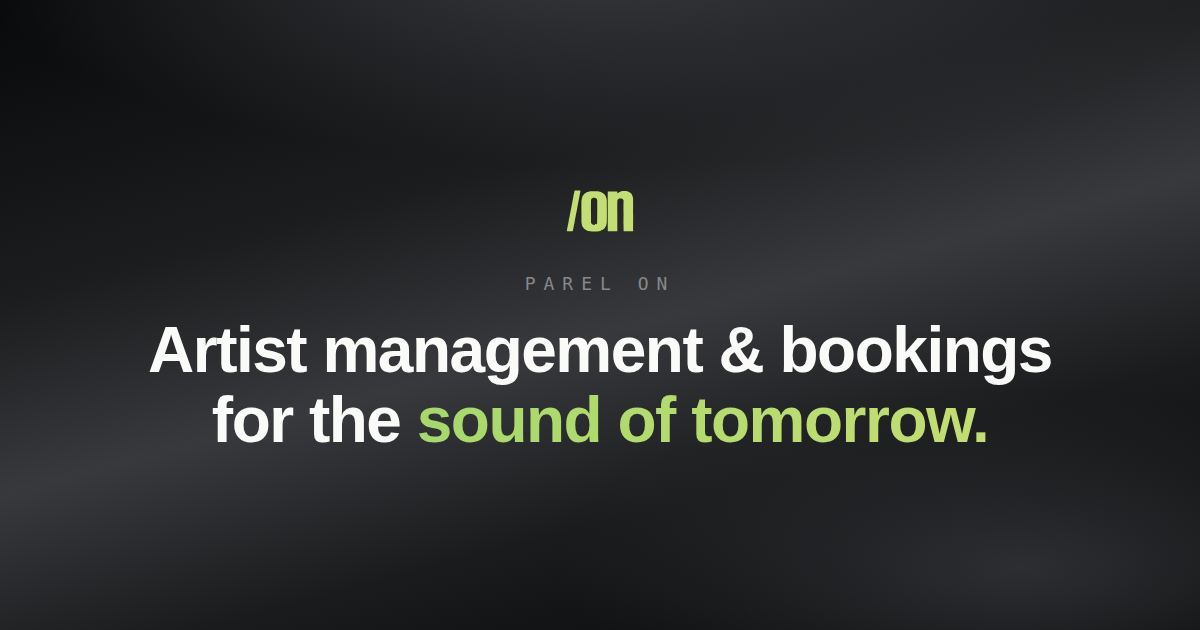
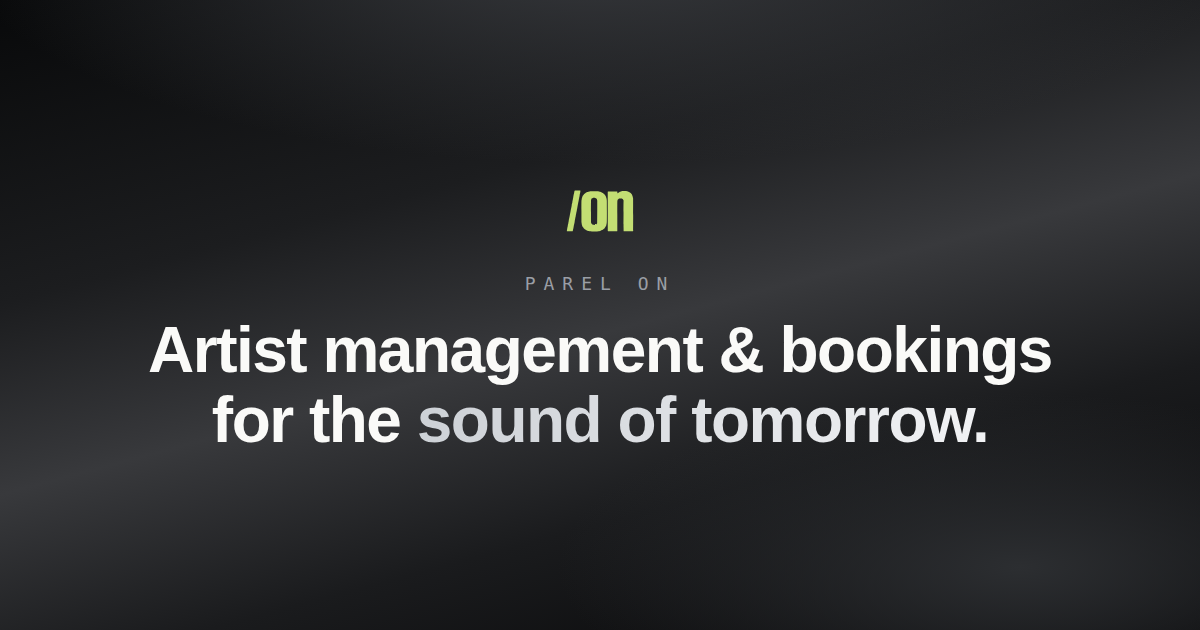
Swap accent from green to silver/metallic, rewrite modal headline
The green UI accent (buttons, glows, cursor, focus states, borders)
read too much like an EDM/festival palette once it was applied
everywhere rather than just the logo. Introduce --color-silver
tokens and move every non-logo accent to it — the play/prev/next
controls, Get in touch and Send buttons, custom cursor, scroll
progress bar, ambient cursor-glow, conic-gradient modal border, and
success checkmark. Green now appears only on the actual /on mark
(hero, footer, preloader, and the small badge in the modal).

Also swap the modal's field-validation error color from brand-lime
to amber, since it's a warning state, not a brand accent, now that
green is reserved for the logo.

Replace the modal headline "Tell us what you're building." (read as
if we were building a platform for the client) with "Let's make
something happen." — decorative-only .text-gradient utility was also
removed since it's no longer referenced.

Claude-Session: https://claude.ai/code/session_01LeuVVs78rVuB779kBq1Hbw

Changed region(s): [[0.3392, 0.6333, 0.8325, 0.7238]]

diff --git a/src/components/ui/ContactModal.tsx b/src/components/ui/ContactModal.tsx
@@ -114,13 +114,13 @@ export function ContactModal({
               transition={{ type: "spring", damping: 28, stiffness: 300 }}
               className="pointer-events-auto w-full max-w-md sm:max-w-3xl"
             >
-              <div className="relative overflow-hidden rounded-[28px] p-[1.5px] shadow-[0_0_140px_-30px_var(--color-brand)]">
+              <div className="relative overflow-hidden rounded-[28px] p-[1.5px] shadow-[0_0_140px_-30px_var(--color-silver)]">
                 <div
                   aria-hidden
                   className="absolute inset-[-60%] animate-spin-slow"
                   style={{
                     background:
-                      "conic-gradient(from 0deg, var(--color-brand), transparent 25%, var(--color-brand-lime), transparent 60%, var(--color-brand))",
+                      "conic-gradient(from 0deg, var(--color-silver), transparent 25%, var(--color-silver-bright), transparent 60%, var(--color-silver))",
                   }}
                 />
 
@@ -130,18 +130,18 @@ export function ContactModal({
                     data-cursor
                     data-cursor-text="Close"
                     aria-label="Close"
-                    className="absolute top-5 right-5 z-10 flex h-8 w-8 items-center justify-center rounded-full text-mist-dim transition-colors hover:text-brand"
+                    className="absolute top-5 right-5 z-10 flex h-8 w-8 items-center justify-center rounded-full text-mist-dim transition-colors hover:text-silver"
                   >
                     ✕
                   </button>
 
                   <div className="hidden flex-col justify-between border-r border-line p-9 sm:flex">
                     <div>
-                      <span className="font-mono text-[10px] tracking-[0.35em] text-brand uppercase">
+                      <span className="font-mono text-[10px] tracking-[0.35em] text-silver uppercase">
                         Let&rsquo;s talk
                       </span>
                       <h2 className="mt-4 font-display text-3xl leading-[1.1] font-semibold tracking-tight text-paper">
-                        Tell us what you&rsquo;re building.
+                        Let&rsquo;s make something happen.
                       </h2>
                       <p className="mt-4 text-sm text-mist">
                         Booking, management or a brand collaboration — we&rsquo;ll route it to the
@@ -157,7 +157,7 @@ export function ContactModal({
                       <a
                         href={`mailto:${CONTACT_EMAIL}`}
                         data-cursor
-                        className="font-mono text-xs tracking-[0.05em] text-mist transition-colors hover:text-brand"
+                        className="font-mono text-xs tracking-[0.05em] text-mist transition-colors hover:text-silver"
                       >
                         {CONTACT_EMAIL}
                       </a>
@@ -165,11 +165,11 @@ export function ContactModal({
                   </div>
 
                   <div className="flex flex-col gap-1 px-7 pt-8 sm:hidden">
-                    <span className="font-mono text-[10px] tracking-[0.35em] text-brand uppercase">
+                    <span className="font-mono text-[10px] tracking-[0.35em] text-silver uppercase">
                       Let&rsquo;s talk
                     </span>
                     <h2 className="font-display text-2xl font-semibold tracking-tight text-paper">
-                      Tell us what you&rsquo;re building.
+                      Let&rsquo;s make something happen.
                     </h2>
                   </div>
 
@@ -240,7 +240,7 @@ export function ContactModal({
                                 disabled={status === "sending"}
                                 data-cursor
                                 data-cursor-text="Send"
-                                className="rounded-full bg-brand px-8 py-3.5 font-mono text-xs tracking-[0.2em] text-ink uppercase transition-transform hover:scale-[1.03] disabled:opacity-50"
+                                className="rounded-full bg-silver px-8 py-3.5 font-mono text-xs tracking-[0.2em] text-ink uppercase transition-transform hover:scale-[1.03] disabled:opacity-50"
                               >
                                 {status === "sending" ? "Sending..." : "Send"}
                               </button>

diff --git a/src/components/sections/HeroContact.tsx b/src/components/sections/HeroContact.tsx
@@ -49,14 +49,14 @@ export function HeroContact({ ready }: { ready: boolean }) {
           </div>
         </div>
 
-        <div className="mt-10 flex flex-col items-center gap-5 rounded-[28px] border border-line bg-white/[0.03] px-9 py-8 shadow-[0_0_80px_-30px_var(--color-brand)] backdrop-blur-xl">
+        <div className="mt-10 flex flex-col items-center gap-5 rounded-[28px] border border-line bg-white/[0.03] px-9 py-8 shadow-[0_0_80px_-30px_var(--color-silver)] backdrop-blur-xl">
           <div className="flex items-center gap-7">
             <button
               onClick={() => goTo(-1)}
               data-cursor
               data-cursor-text="Prev"
               aria-label="Previous track"
-              className="text-brand transition-transform hover:scale-110"
+              className="text-silver transition-transform hover:scale-110"
             >
               <PrevIcon className="h-6 w-6" />
             </button>
@@ -66,7 +66,7 @@ export function HeroContact({ ready }: { ready: boolean }) {
               data-cursor
               data-cursor-text={isPaused ? "Play" : "Pause"}
               aria-label={isPaused ? "Play" : "Pause"}
-              className="flex h-14 w-14 items-center justify-center rounded-full bg-brand text-ink transition-transform hover:scale-105"
+              className="flex h-14 w-14 items-center justify-center rounded-full bg-silver text-ink transition-transform hover:scale-105"
             >
               {isPaused ? <PlayIcon className="ml-0.5 h-6 w-6" /> : <PauseIcon className="h-6 w-6" />}
             </button>
@@ -76,7 +76,7 @@ export function HeroContact({ ready }: { ready: boolean }) {
               data-cursor
               data-cursor-text="Next"
               aria-label="Next track"
-              className="text-brand transition-transform hover:scale-110"
+              className="text-silver transition-transform hover:scale-110"
             >
               <NextIcon className="h-6 w-6" />
             </button>
@@ -100,7 +100,7 @@ export function HeroContact({ ready }: { ready: boolean }) {
               onClick={() => setContactOpen(true)}
               data-cursor
               data-cursor-text="Go"
-              className="rounded-full bg-brand px-8 py-3.5 font-mono text-xs tracking-[0.2em] text-ink uppercase transition-transform hover:scale-[1.03]"
+              className="rounded-full bg-silver px-8 py-3.5 font-mono text-xs tracking-[0.2em] text-ink uppercase transition-transform hover:scale-[1.03]"
             >
               Get in touch
             </button>

diff --git a/src/components/layout/CustomCursor.tsx b/src/components/layout/CustomCursor.tsx
@@ -38,11 +38,11 @@ export function CustomCursor() {
   return (
     <div className="pointer-events-none fixed inset-0 z-[100] hidden md:block">
       <motion.div
-        className="absolute top-0 left-0 h-2 w-2 rounded-full bg-brand"
+        className="absolute top-0 left-0 h-2 w-2 rounded-full bg-silver"
         style={{ x, y, translateX: "-50%", translateY: "-50%" }}
       />
       <motion.div
-        className="absolute top-0 left-0 flex items-center justify-center rounded-full border border-brand/60 backdrop-blur-[1px]"
+        className="absolute top-0 left-0 flex items-center justify-center rounded-full border border-silver/60 backdrop-blur-[1px]"
         style={{
           x: ringX,
           y: ringY,
@@ -52,12 +52,12 @@ export function CustomCursor() {
         animate={{
           width: variant === "hover" ? (label ? 92 : 56) : 32,
           height: variant === "hover" ? (label ? 92 : 56) : 32,
-          backgroundColor: variant === "hover" ? "rgba(167,216,107,0.12)" : "rgba(167,216,107,0)",
+          backgroundColor: variant === "hover" ? "rgba(205,209,214,0.14)" : "rgba(205,209,214,0)",
         }}
         transition={{ type: "spring", damping: 24, stiffness: 260 }}
       >
         {label && (
-          <span className="font-mono text-[10px] tracking-[0.15em] text-brand uppercase">{label}</span>
+          <span className="font-mono text-[10px] tracking-[0.15em] text-silver uppercase">{label}</span>
         )}
       </motion.div>
     </div>

diff --git a/src/components/sections/Footer.tsx b/src/components/sections/Footer.tsx
@@ -12,7 +12,7 @@ export function Footer() {
           target="_blank"
           rel="noreferrer"
           data-cursor
-          className="font-mono text-[11px] tracking-[0.2em] text-mist-dim uppercase transition-colors hover:text-brand"
+          className="font-mono text-[11px] tracking-[0.2em] text-mist-dim uppercase transition-colors hover:text-silver"
         >
           Instagram
         </a>
@@ -21,7 +21,7 @@ export function Footer() {
           target="_blank"
           rel="noreferrer"
           data-cursor
-          className="font-mono text-[11px] tracking-[0.2em] text-mist-dim uppercase transition-colors hover:text-brand"
+          className="font-mono text-[11px] tracking-[0.2em] text-mist-dim uppercase transition-colors hover:text-silver"
         >
           SoundCloud
         </a>
@@ -32,7 +32,7 @@ export function Footer() {
           href="#top"
           data-cursor
           data-cursor-text="Top"
-          className="mt-2 flex h-10 w-10 items-center justify-center rounded-full border border-line text-paper transition-colors hover:border-brand hover:text-brand"
+          className="mt-2 flex h-10 w-10 items-center justify-center rounded-full border border-line text-paper transition-colors hover:border-silver hover:text-silver"
           aria-label="Back to top"
         >
           ↑

diff --git a/src/index.css b/src/index.css
@@ -12,10 +12,15 @@
   --color-mist: #c9cacc;
   --color-mist-dim: #86888c;
 
+  /* Logo-only green — reserved for the actual /on mark (hero, footer, preloader). */
   --color-brand: #a7d86b;
   --color-brand-lime: #c3de73;
-  --color-brand-deep: #6fa83c;
-  --color-brand-glow: #dcf59e;
+
+  /* Site-wide metallic accent — buttons, glows, borders, cursor, focus states. */
+  --color-silver: #cdd1d6;
+  --color-silver-bright: #f2f3f5;
+  --color-silver-dim: #83878e;
+  --color-silver-glow: #ffffff;
 
   --animate-spin-slow: spin 16s linear infinite;
   --animate-pulse-soft: pulse-soft 3.2s ease-in-out infinite;
@@ -45,7 +50,7 @@
 }
 
 * {
-  scrollbar-color: var(--color-brand) var(--color-ink);
+  scrollbar-color: var(--color-silver) var(--color-ink);
 }
 
 html {
@@ -78,7 +83,7 @@ body {
 }
 
 ::selection {
-  background: var(--color-brand);
+  background: var(--color-silver);
   color: var(--color-ink);
 }
 
@@ -88,13 +93,6 @@ body {
 
 .font-mono {
   font-family: var(--font-mono);
-}
-
-.text-gradient {
-  background: linear-gradient(90deg, var(--color-brand) 0%, var(--color-brand-lime) 100%);
-  background-clip: text;
-  -webkit-background-clip: text;
-  color: transparent;
 }
 
 .bg-grain {

diff --git a/src/components/ui/FloatingField.tsx b/src/components/ui/FloatingField.tsx
@@ -13,16 +13,16 @@ export function FloatingField({ label, error, ref, className = "", ...inputProps
         ref={ref}
         {...inputProps}
         placeholder=" "
-        className="peer w-full border-b border-line bg-transparent pt-5 pb-2 text-paper outline-none transition-colors focus:border-brand"
+        className="peer w-full border-b border-line bg-transparent pt-5 pb-2 text-paper outline-none transition-colors focus:border-silver"
       />
       <label
         className="pointer-events-none absolute top-5 left-0 font-mono text-sm text-mist-dim uppercase transition-all duration-200
-          peer-focus:top-0 peer-focus:text-[10px] peer-focus:tracking-[0.15em] peer-focus:text-brand
+          peer-focus:top-0 peer-focus:text-[10px] peer-focus:tracking-[0.15em] peer-focus:text-silver
           peer-[:not(:placeholder-shown)]:top-0 peer-[:not(:placeholder-shown)]:text-[10px] peer-[:not(:placeholder-shown)]:tracking-[0.15em]"
       >
         {label}
       </label>
-      {error && <p className="mt-1.5 text-xs text-brand-lime">{error}</p>}
+      {error && <p className="mt-1.5 text-xs text-amber-300">{error}</p>}
     </div>
   );
 }

diff --git a/src/components/ui/AmbientGlow.tsx b/src/components/ui/AmbientGlow.tsx
@@ -8,7 +8,7 @@ export function AmbientGlow() {
   const y = useMotionValue(typeof window !== "undefined" ? window.innerHeight / 2 : 0);
   const sx = useSpring(x, { damping: 40, stiffness: 60, mass: 0.8 });
   const sy = useSpring(y, { damping: 40, stiffness: 60, mass: 0.8 });
-  const background = useMotionTemplate`radial-gradient(600px circle at ${sx}px ${sy}px, color-mix(in srgb, var(--color-brand) 14%, transparent), transparent 70%)`;
+  const background = useMotionTemplate`radial-gradient(600px circle at ${sx}px ${sy}px, color-mix(in srgb, var(--color-silver) 12%, transparent), transparent 70%)`;
 
   useEffect(() => {
     if (isTouch) return;

diff --git a/src/components/ui/SuccessCheck.tsx b/src/components/ui/SuccessCheck.tsx
@@ -7,7 +7,7 @@ export function SuccessCheck() {
         cx="32"
         cy="32"
         r="29"
-        stroke="var(--color-brand)"
+        stroke="var(--color-silver)"
         strokeWidth="3"
         initial={{ pathLength: 0 }}
         animate={{ pathLength: 1 }}
@@ -15,7 +15,7 @@ export function SuccessCheck() {
       />
       <motion.path
         d="M20 33.5 L28 41.5 L45 23.5"
-        stroke="var(--color-brand)"
+        stroke="var(--color-silver)"
         strokeWidth="3.5"
         strokeLinecap="round"
         strokeLinejoin="round"

diff --git a/src/components/layout/ScrollProgress.tsx b/src/components/layout/ScrollProgress.tsx
@@ -6,7 +6,7 @@ export function ScrollProgress() {
 
   return (
     <motion.div
-      className="fixed top-0 right-0 left-0 z-[80] h-[2px] origin-left bg-gradient-to-r from-brand to-brand-lime"
+      className="fixed top-0 right-0 left-0 z-[80] h-[2px] origin-left bg-gradient-to-r from-silver-dim to-silver-bright"
       style={{ scaleX }}
     />
   );
